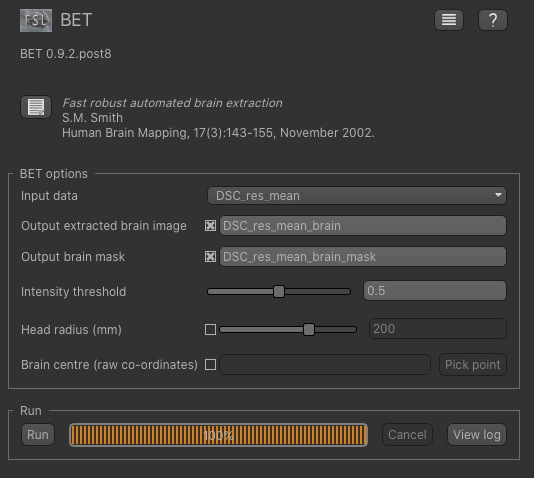
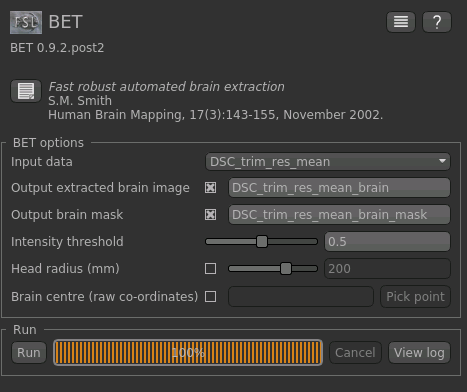
Text and screenshot updates for DSC tutorial

diff --git a/doc/dsc/dsc_tutorial.rst b/doc/dsc/dsc_tutorial.rst
@@ -27,7 +27,7 @@ If you are taking part in an organized practical workshop, the data required may
 directory, in the ``course_data/dsc`` folder. If not, you will have been given instructions
 on how to obtain the data from the course organizers.
 
-We will start by loading the main DSC data file:
+We will start by loading the main DSC data file for the subject ``patient-03`:
 
   - ``DSC.nii.gz``
 
@@ -133,9 +133,9 @@ Click ``Run`` and an ROI should be generated covering the brain and displayed as
 .. image:: /screenshots/dsc_brain.png
 
 When viewing the output of modelling, it may be clearer if the ROI is displayed as an outline rather than a shaded
-region. To do this, click on the icon to the right of the ROI selector (below the image view):
+region. To do this, click on the |roi_view| icon to the right of the ROI selector (below the image view):
 
-.. image:: /screenshots/roi_view_icon.png
+.. |roi_view| image:: /screenshots/roi_view_icon.png 
 
 The icon cycles between display modes for the ROI: shaded (with variable transparency selected by the slider below), 
 shaded and outlined, just outlined, or no display at all.
@@ -170,11 +170,13 @@ should look something like this:
 
 .. image:: /screenshots/dsc_tutorial_widget.png
 
-For the data select our trimmed and resampled DSC data: ``DSC_res``. For the ROI select the whole brain mask
-``DSC_res_mean_mask``. The TE is 0.03s and the TR is 1.25s - you can find these values in the metadata file ``DSC.json``.
+For the data select our trimmed and resampled DSC data: ``DSC_trim_res``. For the ROI select the whole brain mask
+``DSC_trim_res_mean_mask``. The TE is 0.03s and the TR is 1.25s - you can find these values in the metadata file ``DSC.json``.
 
-We also recommend you set 'Log transform on rCBF' as this prevents negative values in the CBF output. Other
-options can be left at their default values:
+We also recommend you set 'Log transform on rCBF' as this prevents negative values in the CBF output. Also, for 
+this tutorial you should change 'Spatial regularization' to 'None' - this makes the analysis quicker to run and less
+memory hungry. For production analysis however we would recommend using spatial regularization which causes parameter
+maps to undergo adaptive smoothing during the inference process. Other options can be left at their default values:
 
 .. image:: /screenshots/dsc_tutorial_widget_completed.png
 
